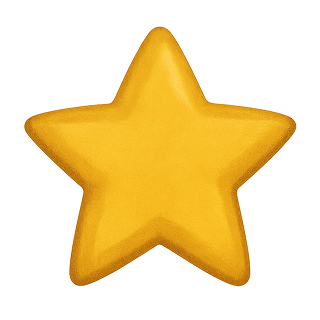
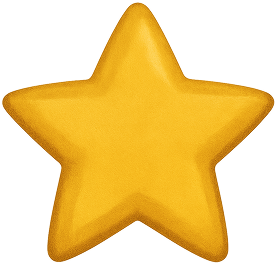
refactor(achievement)!: add subtitle to AchievementModel and update AchievementCard for display

Changed region(s): [[0.0, 0.0, 1.0, 0.9962]]

diff --git a/lib/src/screen/achievement/achievement_card.dart b/lib/src/screen/achievement/achievement_card.dart
@@ -32,14 +32,14 @@ class AchievementCard extends StatelessWidget {
     double marginVertical;
 
     if (isMobileLandscape) {
-      cardWidth = 130;
+      cardWidth = 20.w(context);
       cardHeight = double.infinity;
       titleFontSize = 16;
       valueFontSize = 28;
-      imageSize = 50;
+      imageSize = 65;
       padding = 16;
       marginHorizontal = 8;
-      marginVertical = 0;
+      marginVertical = 5;
     } else if (isTabletLandscape) {
       cardWidth = 200;
       cardHeight = double.infinity;
@@ -99,11 +99,19 @@ class AchievementCard extends StatelessWidget {
                   fontWeight: FontWeight.bold,
                 ),
               ),
+              Gaps.verticalGapOf(isMobileLandscape ? 8 : 12),
+              Text(
+                achievement.subtitle,
+                textAlign: TextAlign.center,
+                style: AppStyles.text16PxRegular.copyWith(
+                  fontFamily: AppConstants.kDMSansFont,
+                ),
+              ),
 
               // Middle - Icon (takes remaining space)
               Expanded(
                 child: Align(
-                  alignment: Alignment.bottomCenter,
+                  alignment: Alignment.center,
                   child: CustomImage(
                     achievement.imageUrl,
                     boxFit: BoxFit.contain,
@@ -115,7 +123,7 @@ class AchievementCard extends StatelessWidget {
               ),
 
               // Bottom section with title
-              Gaps.verticalGapOf(40),
+              Gaps.verticalGapOf(16),
               Text(
                 achievement.title,
                 style: AppStyles.text18PxMedium.copyWith(

diff --git a/lib/src/core/model/achievement/achievement_model.dart b/lib/src/core/model/achievement/achievement_model.dart
@@ -4,6 +4,7 @@ import 'package:onepali/src/src.dart';
 class AchievementModel {
   final String id;
   final String title;
+  final String subtitle;
   final String value;
   final String imageUrl;
   final Color? color;
@@ -11,6 +12,7 @@ class AchievementModel {
   AchievementModel({
     required this.id,
     required this.title,
+    required this.subtitle,
     required this.value,
     required this.imageUrl,
     this.color,
@@ -21,6 +23,7 @@ class AchievementModel {
     return AchievementModel(
       id: json['id'],
       title: json['title'] ?? "",
+      subtitle: json['subtitle'] ?? "",
       value: json['value'] ?? "",
       imageUrl: json['imageUrl'] ?? "",
     );
@@ -31,6 +34,7 @@ List<AchievementModel> achievementList = [
   AchievementModel(
     id: "1",
     title: "Practice Hero Trophy",
+    subtitle: "days streak",
     value: "0",
     imageUrl: Assets.trophyAv,
     color: AppColors.kPureSkyBlue,
@@ -38,6 +42,7 @@ List<AchievementModel> achievementList = [
   AchievementModel(
     id: "2",
     title: "Learning Champion Medal",
+    subtitle: "Completed activities",
     value: "0",
     imageUrl: Assets.medalAv,
     color: AppColors.kButtonRed,
@@ -45,6 +50,7 @@ List<AchievementModel> achievementList = [
   AchievementModel(
     id: "3",
     title: "Star Collector Badge",
+    subtitle: "Total stars collected",
     value: "0",
     imageUrl: Assets.starAv,
     color: AppColors.kButtonGreen,
